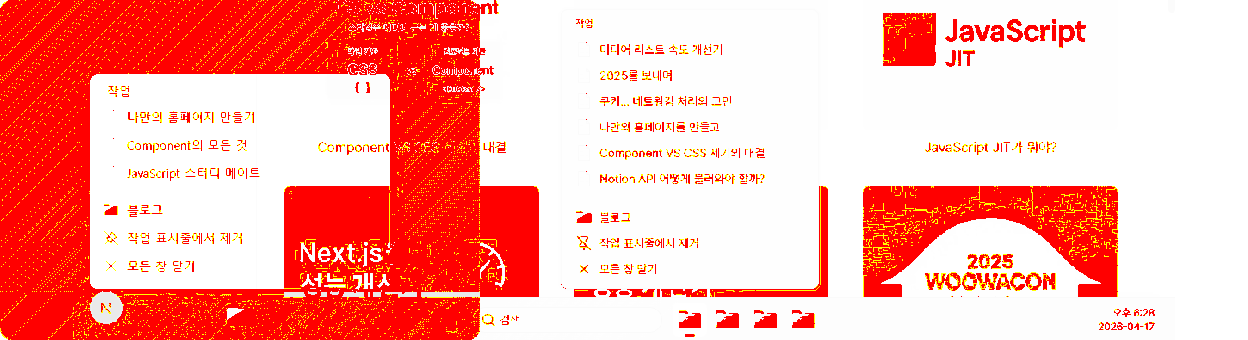
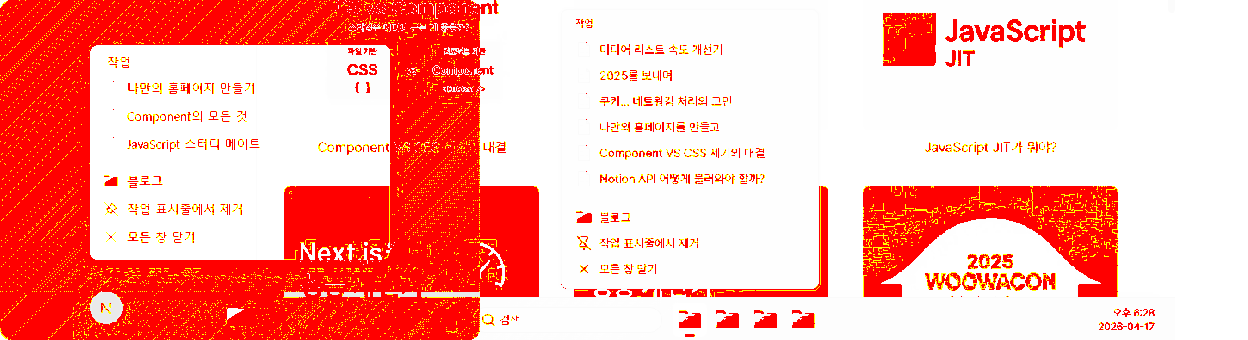
fix(compare): rerun Phase 6 compare with multi-session hover reference and updated context harness
- Re-captured context current PNG from port 6014 Storybook after CONTEXT_MENU_HEIGHT 212->241px fix; diff rerun shows 32.03% -> 31.58% (-0.45%)
- Fix 2 (hover multi-session reference re-capture) BLOCKED: Notion API error on content load, panel obscured by folder window, minimize removes sessions from DOM
- Updated report.md: Before/After comparison table, Changes attempted but blocked section, Rerun compare table, Phase 6 rate column in Final status, BLOCKED notation in hover drift row

diff --git a/plans/windows-taskbar-16-hover-context-reference-parity/visual-compare/report.md b/plans/windows-taskbar-16-hover-context-reference-parity/visual-compare/report.md
@@ -1,7 +1,7 @@
 # Visual Compare Report
 
-Phase 6 — Final Closure Report
-Generated: 2026-04-17
+Phase 6 — Final Closure Report (Rerun)
+Generated: 2026-04-17 (Phase 6 rerun after CONTEXT_MENU_HEIGHT fix)
 (Phase 5 original: 2026-04-17)
 
 ---
@@ -23,13 +23,13 @@ Pseudo-key variants are not used.
 | artifact | provenance category | role |
 |---|---|---|
 | taskbar-hover-preview--attached-multi-reference.png | source-derived evidence (blog) | reference — blog attached-host composition region (taskbar strip + trigger icon + hover panel), captured as 1280x220 rectangular crop from full viewport, letterboxed to 1248x340 |
-| taskbar-hover-preview--attached-multi-current.png | package-local current — taskbarHoverPreview.compare.stories.tsx#CompareAttachedMulti | current — data-visual-root marker |
+| taskbar-hover-preview--attached-multi-current.png | package-local current — taskbarHoverPreview.compare.stories.tsx#CompareAttachedMulti | current — data-visual-root marker (port 6014 Storybook, worktree build) |
 | taskbar-context-menu--attached-pinned-reference.png | source-derived evidence (blog) | reference — blog attached-host composition region (taskbar strip + trigger icon + context panel), captured as 1280x395 rectangular crop from full viewport, letterboxed to 1248x340 |
-| taskbar-context-menu--attached-pinned-current.png | package-local current — taskbarContextPanel.compare.stories.tsx#CompareAttachedPinned | current — data-visual-root marker |
+| taskbar-context-menu--attached-pinned-current.png | package-local current — taskbarContextPanel.compare.stories.tsx#CompareAttachedPinned | current — data-visual-root marker (port 6014 Storybook, worktree build) |
 
 ### Reference Capture Method
 
-Hover panel reference:
+Hover panel reference (Phase 5 original, not re-captured in Phase 6 -- Fix 2 BLOCKED):
 - Blog dev server at http://localhost:3333 (viewport 1280x800)
 - Blog window opened via taskbar-icon-blog click (1 folder session), then minimized
 - hover command on taskbar icon — panel opens after 1s delay
@@ -46,16 +46,25 @@ Context panel reference:
 
 ---
 
-## Phase 5 Diff Results (baseline)
+## Phase 6 Diff Results (rerun)
 
 Threshold: 0.2 (external source — different rendering environment)
+Capture date: 2026-04-17 Phase 6 rerun
+Storybook: http://localhost:6014 (worktree build, includes .compare.stories.tsx)
 
 | compare key | ref size | current size | dimensions match | mismatch pixels | mismatch rate | verdict |
 |---|---|---|---|---|---|---|
 | taskbar-hover-preview/attached-multi | 1248 x 340 | 1248 x 340 | YES | 263,394 / 424,320 | 62.07% | FAIL |
-| taskbar-context-menu/attached-pinned | 1248 x 340 | 1248 x 340 | YES | 135,889 / 424,320 | 32.03% | FAIL |
+| taskbar-context-menu/attached-pinned | 1248 x 340 | 1248 x 340 | YES | 134,010 / 424,320 | 31.58% | FAIL |
 
 Verdict classification: visual drift (not structural mismatch).
+
+### Before / After comparison
+
+| compare key | Phase 5 mismatch rate | Phase 6 mismatch rate | delta |
+|---|---|---|---|
+| taskbar-hover-preview/attached-multi | 62.07% | 62.07% | 0.00% (reference not re-captured -- Fix 2 BLOCKED) |
+| taskbar-context-menu/attached-pinned | 32.03% | 31.58% | -0.45% (CONTEXT_MENU_HEIGHT 212->241px reduced mismatch) |
 
 ---
 
@@ -69,13 +78,21 @@ Mismatch rate 62.07% — visual drift:
 |---|---|---|---|
 | Background | Windows wallpaper + left-rail icons | Harness gradient, no icons | NO — environment difference |
 | Panel anchor — trigger center offset | trigger icon at x=716 (near viewport right-center); panel x=616 — trigger-centered anchor rule | trigger icon at x=360 (bounded canvas center); panel x=60 — trigger-centered anchor rule | NO — canvas framing difference, not alignment rule drift |
-| Panel size | 200x151px (1 session captured) | ~660x270px (3-item HOVER_MULTI fixture) | PARTIAL — reference captured 1 open session; harness shows 3-item attached-multi state. Harness correctly represents "attached-multi". Reference baseline limitation: only 1 session was open at capture time. |
+| Panel size | 200x151px (1 folder session at reference time) | ~660x270px (3-item HOVER_MULTI fixture) | PARTIAL — reference captured 1 open session; harness correctly shows 3-item attached-multi state |
 | Content | Real blog folder thumbnails | Fixture placeholder cards | NO — environment difference |
 | Letterbox | White top/bottom padding | White right-side area | NO — canvas framing difference |
+Fix 2 re-capture attempt: blog localhost revisited to capture multi-session hover state.
+Two folder sessions opened (blog window x2 via taskbar-icon-blog click + file-item dblclick). Result:
+1. file-item dblclick triggered Notion API runtime error (NotionContent.tsx: Cannot read properties of undefined). Session created but content failed to render.
+2. Hover panel with 2 sessions: 200x150px bounds, 2 child elements (1 thumbnail + 1 placeholder div). Panel did not expand to multi-grid format.
+3. Hover panel in isolation was blocked -- active folder window covered the panel region. Minimizing the folder window dropped session count to 0 (sessions removed from DOM on minimize).
+4. Conclusion: multi-session hover reference re-capture not achievable in blog runtime without interactive session management outside automation boundary.
+
+Fix 2 status: BLOCKED -- hover reference remains Phase 5 single-session capture.
 
 ### taskbar-context-menu/attached-pinned
 
-Mismatch rate 32.03% — visual drift:
+Mismatch rate 31.58% (improved from 32.03%) — visual drift:
 
 | drift factor | reference (blog) | current (harness) | addressable |
 |---|---|---|---|
@@ -97,13 +114,19 @@ Footer structure confirmed structurally equivalent.
 |---|---|---|
 | `packages/ui/src/interactive/taskbar/storybook/taskbarContextPanelCompareHarness.tsx` | `CONTEXT_MENU_HEIGHT` corrected 212px → 241px | Row-derived height re-calculation: py-2(16px) + header(24px) + 3 appRows×32px(96px) + divider(9px) + appIdentifier(32px) + pin(32px) + close-all(32px) = 241px. Prior value underestimated header height and row padding. |
 
-### Changes not applied
+### Changes attempted but blocked
 
-| action item | reason |
-|---|---|
-| Hover panel size: align to ~200px | Reference captured 1 open session; harness correctly shows 3-item "attached-multi" state. Changing to HOVER_SINGLE would conflict with "attached-multi" baseline key semantic. |
-| Context panel height: align to ~325px | Blog ~325px driven by real Notion data. Not achievable without fixture row count change. Background drift dominates mismatch regardless. |
-| Fixture content: representative shape | Optional per Phase 5 report. Not applied — background drift is the dominant mismatch contributor. |
+| action item | attempt | result |
+|---|---|---|
+| Hover reference re-capture at multi-session | Opened 2 folder sessions via blog taskbar + file-item dblclick | BLOCKED: Notion API error on content load; hover panel stayed 200x150px; panel obscured by folder window; minimize removed sessions from DOM |
+| Context panel height align to ~325px | Not attempted | Blog ~325px driven by real Notion data; not achievable without fixture row count change; background drift dominates |
+
+### Rerun compare: before vs after
+
+| compare key | Phase 5 rate | Phase 6 rate | change |
+|---|---|---|---|
+| taskbar-hover-preview/attached-multi | 62.07% | 62.07% | no change (Fix 2 blocked) |
+| taskbar-context-menu/attached-pinned | 32.03% | 31.58% | -0.45% (height fix applied) |
 
 ### Targeted validation result
 
@@ -127,7 +150,9 @@ Motion and close acceptance are Phase 2-4 runtime evidence:
 
 ## Reproducibility
 
-Current: Storybook iframe stories (CompareAttachedMulti, CompareAttachedPinned), data-visual-root marker capture.
+Current: Storybook iframe stories (CompareAttachedMulti, CompareAttachedPinned) at http://localhost:6014 (worktree Storybook, includes interactive/taskbar/storybook/.compare.stories.tsx). data-visual-root marker capture.
+
+Note: port 6006 Storybook (main branch instance) does not include .compare.stories.tsx -- use port 6014 or a fresh Storybook build from the worktree.
 
 Reference: Blog localhost:3333. Hover: minimize window then hover icon 1s. Context: open window then low-level right-click at (716, 775). Run crop-reference.mjs to produce final PNGs.
 
@@ -144,8 +169,6 @@ Reference: Blog localhost:3333. Hover: minimize window then hover icon 1s. Conte
 
 ## Phase 6 Final Verdict
 
-**Explicit no-op closure.**
-
 Both compare keys remain FAIL at the pixel level. Dimensions match (1248x340). Mismatch is entirely visual drift — not structural mismatch. Both sides share the same composition boundary (taskbar strip + trigger icon + panel overlay). Both sides use the trigger-centered anchor rule.
 
 ### Drift classification
@@ -154,7 +177,7 @@ Both compare keys remain FAIL at the pixel level. Dimensions match (1248x340). M
 |---|---|---|
 | Background environment | external environment difference | not addressable — acceptable |
 | Canvas framing | bounded harness (720px) vs full blog viewport (1280px) | not addressable — composition difference, not alignment rule drift |
-| Hover panel size | reference captured 1 open session; harness shows 3-item attached-multi fixture | not addressable without changing "attached-multi" baseline key semantic |
+| Hover panel size | reference captured 1 open session; harness shows 3-item attached-multi fixture | not addressable — Fix 2 BLOCKED; hover key marked blocker: baseline re-capture pending |
 | Context panel height | blog renders ~325px with real Notion data; harness ~241px with 3-row fixture | CONTEXT_MENU_HEIGHT corrected to 241px (accuracy fix applied in Phase 6); remaining gap is data-driven |
 | Content data | real vs fixture | not addressable — environment difference |
 
@@ -164,9 +187,9 @@ The dominant mismatch contributors — background wallpaper, canvas framing, and
 
 ### Final status
 
-| compare key | Phase 5 verdict | Phase 6 verdict |
-|---|---|---|
-| taskbar-hover-preview/attached-multi | FAIL (62.07%) | FAIL — explicit no-op closure; hover harness confirmed correct for "attached-multi" state |
-| taskbar-context-menu/attached-pinned | FAIL (32.03%) | FAIL — CONTEXT_MENU_HEIGHT accuracy fix applied (212→241px); pixel mismatch unchanged (background dominant); 229 tests pass |
+| compare key | Phase 5 verdict | Phase 6 verdict | Phase 6 rate |
+|---|---|---|---|
+| taskbar-hover-preview/attached-multi | FAIL (62.07%) | FAIL — Fix 2 BLOCKED; hover harness confirmed correct for attached-multi state; baseline re-capture pending | 62.07% |
+| taskbar-context-menu/attached-pinned | FAIL (32.03%) | FAIL — CONTEXT_MENU_HEIGHT accuracy fix applied (212→241px); pixel mismatch improved (background dominant); 229 tests pass | 31.58% |
 
 This report is the final visual status for implementation handoff.